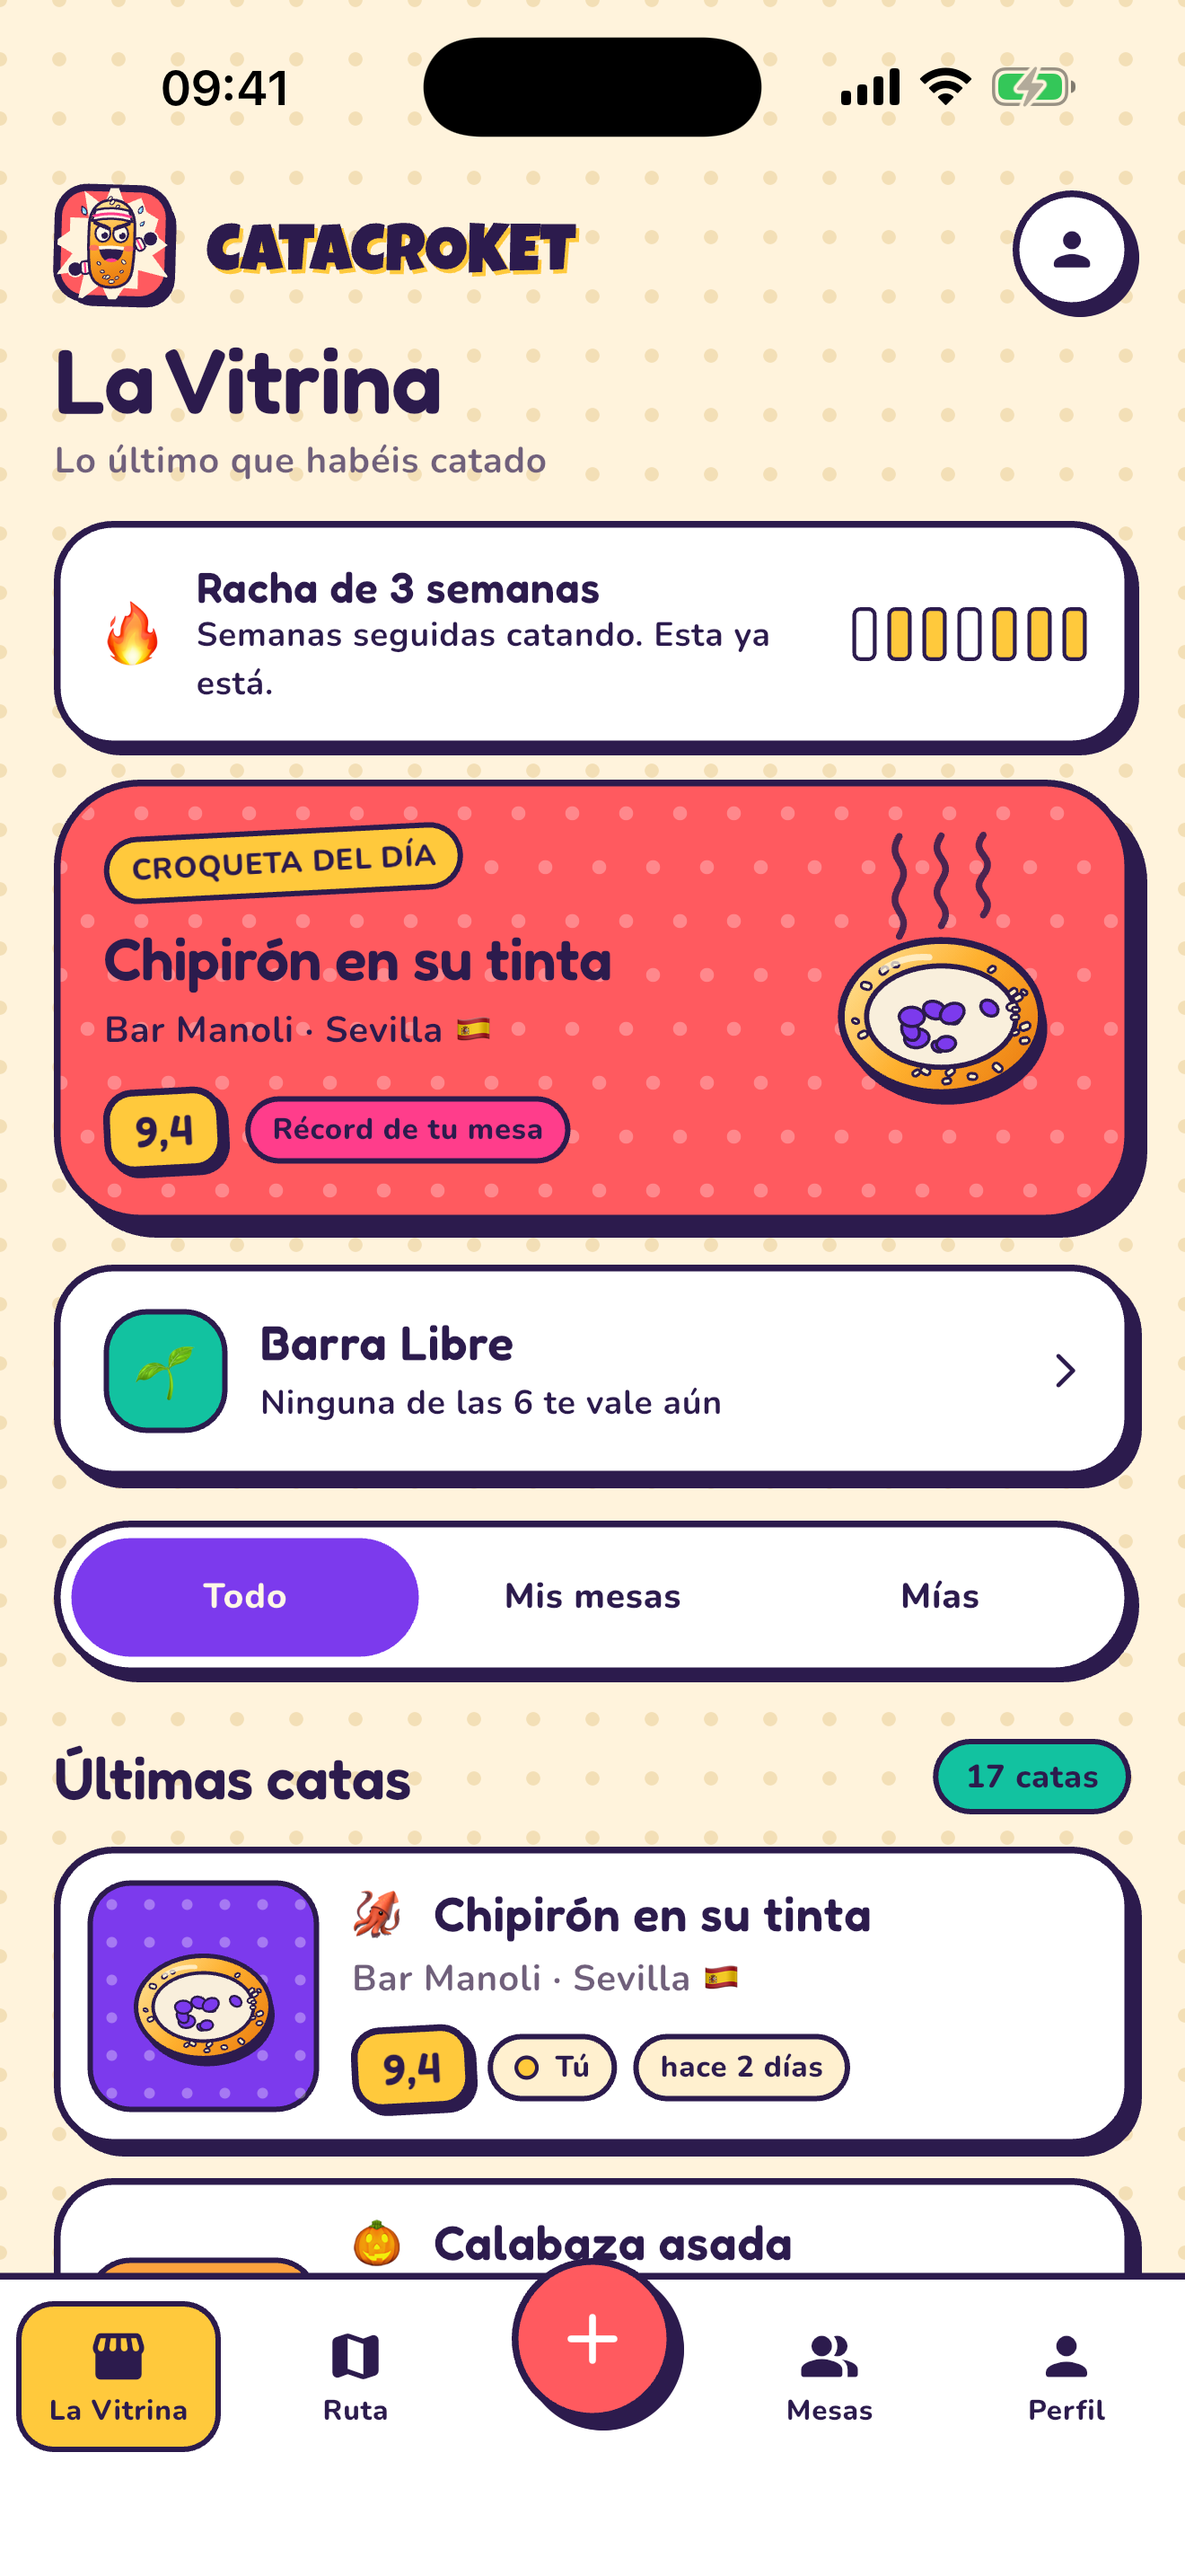
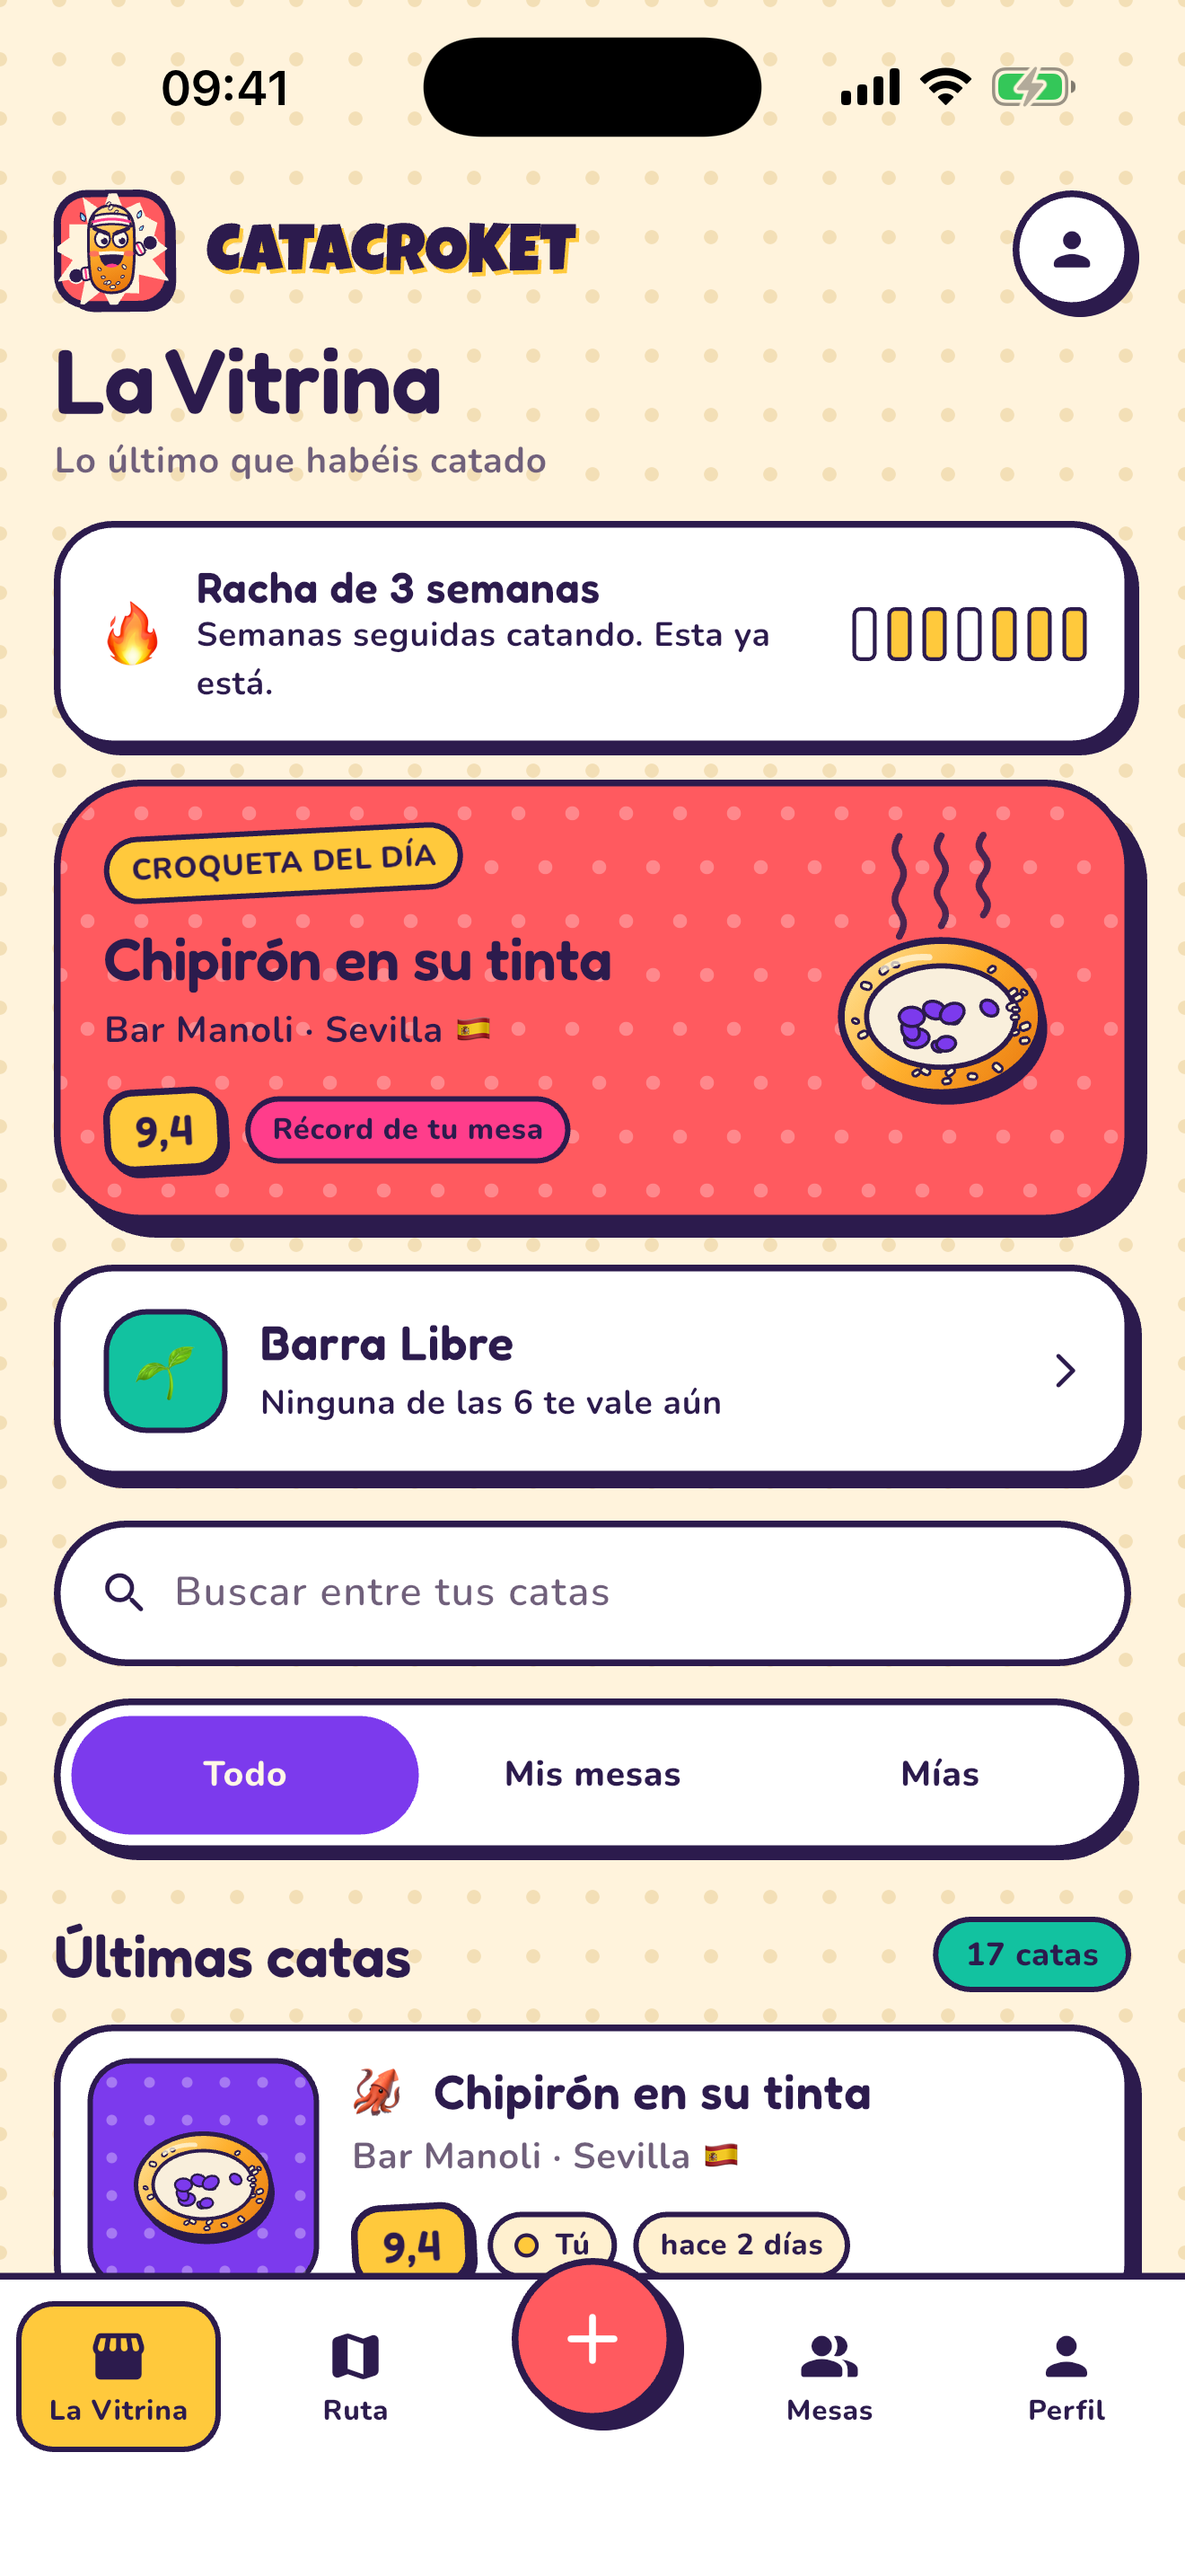
Las seis capturas de la ficha de tienda
A 1320 x 2868, que es el tamaño exacto que pide la App Store para 6.9". Salen
del modo capturas, o sea que es la app tal cual la ve la gente: sin el botón
de diagnóstico del mapa, que sólo existe en depuración.

Con la barra de estado a las 9:41 como quiere Apple y los carteles de ayuda
cerrados, que explican bien la app pero en una captura ocupan el sitio del
producto.

El orden importa: el 90% de la gente no pasa de la tercera. Va primero el
feed, segundo el mapa con los globos agrupados —que es lo más difícil de
explicar con palabras y lo más fácil de entender de un vistazo— y tercera la
ficha con el corte dibujado, que es lo que no tiene ninguna otra app.

Están sin retocar. Si se les quiere poner un titular encima, que en la tienda
funciona, va sobre éstas.

Esto estuvo bloqueado media sesión por el disco, y resultó que no era el
disco: eran los dos simuladores arrancados, que se comían veintidós gigas de
memoria virtual. Apagarlos los devuelve enteros.

Changed region(s): [[0.0311, 0.5896, 0.9629, 0.8999], [0.0311, 0.0621, 0.1553, 0.1241]]

diff --git a/docs/capturas/README.md b/docs/capturas/README.md
@@ -58,8 +58,25 @@ La primera es la que decide: el 90% de la gente no pasa de la tercera.
 5. **Una mesa** — el ranking, que es el argumento para bajársela en grupo.
 6. **La estampa de compartir** — lo que acaba en el grupo de WhatsApp.
 
-## Lo que hay aquí ahora
+## Lo que hay aquí
 
-`1-vitrina.png`, hecha a mano durante la revisión. Las demás están sin hacer:
-se quedaron a medias porque el disco del portátil se llenó dos veces seguidas
-mientras se compilaba.
+Las seis, a 1320 × 2868, sacadas del modo capturas con la barra de estado
+puesta a las 9:41 y los carteles de ayuda cerrados:
+
+1. `1-vitrina.png` — el feed, con la racha, la croqueta del día y la caja de
+   buscar.
+2. `2-ruta.png` — el mapa con los globos agrupados. La que mejor explica la
+   app de un vistazo, y la que iría segunda.
+3. `3-mesas.png` — las tres mesas con sus códigos y su gente.
+4. `4-perfil.png` — el croquetómetro: rango, cifras y tu paladar.
+5. `5-ficha.png` — el corte dibujado. Es lo que no tiene ninguna otra app y el
+   argumento de venta de verdad.
+6. `6-estampa.png` — lo que acaba en el grupo de WhatsApp.
+
+Están sin retocar: son la app tal cual, sin marcos ni rótulos encima. Si se
+les quiere poner un titular a cada una —que en la App Store funciona—, va
+encima de éstas, no en lugar de ellas.
+
+Falta el paso 3 del formulario, el del corte y la prueba del tiro al plato,
+que hay que atravesar dos pasos para llegar. Merece la pena si se quiere una
+séptima.
